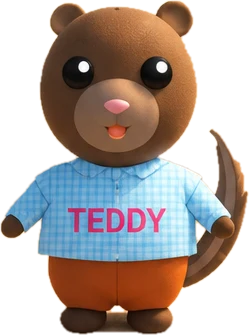
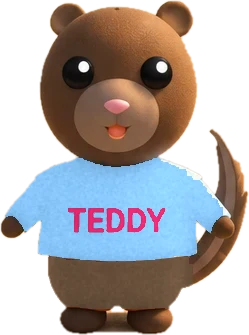
角色名定案：橘子（原英雄）、五毛（原ㄚ波）；碰氣衣服改成照片上的天空藍刷毛衣＋桃紅 TEDDY 字，橘色褲子改回松鼠毛色
Claude-Session: https://claude.ai/code/session_01CqeieRWMUFwXZe9jxa6gye

Changed region(s): [[0.0281, 0.4478, 0.8996, 0.9254]]

diff --git a/index.html b/index.html
@@ -1270,8 +1270,8 @@ const ROLE_BASE = {
   alien:{n:'吃貨外星人',    perk:'說好話感化黑騎士，威力 ×1.6'},
   awu:{n:'阿無',            perk:'知識卡答對多 3 點果友值'},
   robot:{n:'苔蘚古機器人',  perk:'每天第一棵樹必出寶箱'},
-  hero:{n:'英雄',           perk:'守護寶物，黑騎士搶不走'},
-  apo:{n:'ㄚ波',            perk:'能量用完時，每天還能多找 1 棵樹'},
+  hero:{n:'橘子',           perk:'守護寶物，黑騎士搶不走'},
+  apo:{n:'五毛',            perk:'能量用完時，每天還能多找 1 棵樹'},
   knight:{n:'黑騎士',       perk:'寶箱機率 +3%，自己人不會被搶'},
   cat:{n:'小呱',            perk:'晚上 6 點到早上 6 點，寶箱機率 +6%'},
   teddy:{n:'碰氣',          perk:'稀有收藏更容易發現'},
@@ -1607,7 +1607,7 @@ function rhythmGame(done){
     clearInterval(ci); $('#rhJ').textContent = '🎵 開始！'; useAudio = player.start(); pt0 = performance.now(); started = true; raf = requestAnimationFrame(loop); }, 700);
 }
 /* ---------- V10.6：農場翻牌（角色配對＋計時條＋連擊＋中途洗牌） ---------- */
-const MEM_CHARS = [['🍇','阿無'],['🐱','小呱'],['🐿','碰氣'],['🐕','黑熊'],['🐈⬛','奇奇'],['🐢','小葵'],['🐔','一虎'],['🦜','英雄'],['👽','外星人'],['🛡','黑騎士'],['🎁','禮盒'],['🌿','無花果葉']];
+const MEM_CHARS = [['🍇','阿無'],['🐱','小呱'],['🐿','碰氣'],['🐕','黑熊'],['🐈⬛','奇奇'],['🐢','小葵'],['🐔','一虎'],['🦜','橘子'],['👽','外星人'],['🛡','黑騎士'],['🎁','禮盒'],['🌿','無花果葉']];
 function memoryGame(done){
   const d = diffOf('memory'), C = [3,4,4][d], R = [4,4,5][d], pairs = C*R/2, LIMIT = [60,70,80][d], peek = [3,2,2][d];
   const pick = [...MEM_CHARS].sort(()=>Math.random()-.5).slice(0,pairs);
@@ -1887,7 +1887,7 @@ function avatarVec(roleId, mat, color){
       : `<path d="M70 4 C78 -2 88 2 88 8 C80 10 74 8 70 4Z" fill="#5E9A4E"/>`;
     return wrap('阿無');
   }
-  if(role.base==='hero' || role.base==='apo'){ // Q版鸚鵡：英雄（金太陽）、ㄚ波（藍和尚）
+  if(role.base==='hero' || role.base==='apo'){ // Q版鸚鵡：橘子（金太陽）、五毛（藍和尚）
     if(role.base==='hero'){
       s += `<path d="M48 112 C36 130 30 144 34 150 C44 146 52 132 58 118Z" fill="#2F7FA8"/><path d="M52 114 C44 130 42 142 46 148 C52 140 58 128 60 118Z" fill="#5FA05A"/>
         <ellipse cx="60" cy="102" rx="26" ry="28" fill="#F8C93A"/>
@@ -1902,7 +1902,7 @@ function avatarVec(roleId, mat, color){
         <path d="M80 62 C92 60 96 70 90 80 C88 74 84 72 80 74Z" fill="#3C3C42"/><path d="M80 74 C84 72 88 74 90 80 L82 78Z" fill="#26262A"/>
         <circle cx="64" cy="70" r="4" fill="#E8452C" opacity=".6"/>
         <path d="M52 132 l-4 8 M56 132 l0 8 M66 132 l0 8 M70 132 l4 8" stroke="#9A9AA2" stroke-width="3" stroke-linecap="round"/>`;
-      return wrap('英雄');
+      return wrap('橘子');
     }
     s += `<path d="M50 114 C40 130 36 144 40 150 C50 144 56 130 60 118Z" fill="#7FA82E"/>
       <ellipse cx="60" cy="104" rx="26" ry="27" fill="#A9CC3E"/>
@@ -1916,7 +1916,7 @@ function avatarVec(roleId, mat, color){
       <circle cx="70" cy="52" r="4.6" fill="#111"/><circle cx="71.6" cy="50.6" r="1.5" fill="#fff"/>
       <path d="M80 60 C92 60 94 72 86 80 C84 74 80 72 78 72Z" fill="#F2A98A"/>
       <path d="M52 132 l-4 8 M56 132 l0 8 M66 132 l0 8 M70 132 l4 8" stroke="#A8B0B6" stroke-width="3" stroke-linecap="round"/>`;
-    return wrap('ㄚ波');
+    return wrap('五毛');
   }
   if(role.base==='robot'){ // 苔蘚古機器人：原創設計，銅綠外殼長出青苔與新芽
     const cu='#5E9C90', cuD='#3D6B63', brass='#C9A24A';
@@ -2645,7 +2645,7 @@ const CHAPTERS = [
   {from:5,  to:9,  icon:'🌅', t:'清晨・晨露巡園', p:'阿無揉揉眼睛醒來，溫室裡的果子掛滿露水。先報到，再出門走一走鍛鍊體力，能量會多一些。'},
   {from:9,  to:12, icon:'☀', t:'上午・採收時間', p:'碰氣在晨曦溫室跳來跳去，說今天的果子特別甜。產季的溫室，寶箱比較多。'},
   {from:12, to:17, icon:'🛸', t:'午後・外星訪客', p:'一艘飛碟停在翡翠溫室屋頂。外星人探出頭說：聽說這裡的無花果，好吃到銀河都知道。'},
-  {from:17, to:19, icon:'🌇', t:'傍晚・黑騎士出沒', p:'天色暗了，黑騎士在金葉小徑上徘徊，想搶走大家的寶箱。英雄和ㄚ波飛出去巡邏。'},
+  {from:17, to:19, icon:'🌇', t:'傍晚・黑騎士出沒', p:'天色暗了，黑騎士在金葉小徑上徘徊，想搶走大家的寶箱。橘子和五毛飛出去巡邏。'},
   {from:19, to:29, icon:'🌙', t:'夜晚・小呱夜巡', p:'小呱睜大黃眼睛巡園，夜裡的寶箱特別多。睡前把今天的冒險收尾吧。'}
 ];
 function chapter(){ let h=new Date().getHours(); if(h<5) h+=24; return CHAPTERS.find(c=>h>=c.from && h<c.to) || CHAPTERS[4]; }
@@ -2756,7 +2756,7 @@ function tapTree(i){
   if(tapped.includes(i)){ toast('這棵樹今天找過了，換一棵試試'); return; }
   let apoFree = false;
   if(stamina()<1){
-    if(roleBase(P.role)==='apo' && !P.daily.apoExtra){ apoFree = true; P.daily.apoExtra = true; toast('ㄚ波拍拍翅膀，多找一棵樹'); }
+    if(roleBase(P.role)==='apo' && !P.daily.apoExtra){ apoFree = true; P.daily.apoExtra = true; toast('五毛拍拍翅膀，多找一棵樹'); }
     else { toast('今天的巡園次數用完了，走走路或照顧樹就能補充'); return; }
   }
   if(!apoFree) P.daily.used++;
@@ -2767,7 +2767,7 @@ function tapTree(i){
   const forceChest = (base==='robot' && !P.daily.firstTap) || (P.daily.chests===0 && before>=2);   // 保底：每天第 3 棵樹前一定開到寶箱
   P.daily.firstTap = true;
   const h = new Date().getHours();
-  // 黑騎士搶寶：傍晚比較常出現；英雄和黑騎士不會被搶
+  // 黑騎士搶寶：傍晚比較常出現；橘子和黑騎士不會被搶
   if(!forceChest && !P.daily.knightMet && base!=='hero' && base!=='knight' && Math.random() < (h>=17&&h<19 ? .10 : .05)){
     res[i]='🏴'; const lf=gainLeaves(1); save(); openZone(z.id);
     return result('🏴','黑騎士偷走了寶物！',`他從${kzName()}溫室溜過來，只掉下一點點果友值（+${lf}）。去${kzName()}溫室把他趕走，今天就不會再被偷。`);
@@ -3643,7 +3643,7 @@ function knightBattle(zid){
     $('#kCtl').querySelectorAll('[data-q]').forEach(b=>b.onclick=()=>say(b.dataset.q));
     $('#kSend').onclick = ()=>{ say($('#kIn').value); $('#kIn').value=''; };
     $('#kIn').onkeydown = e=>{ if(e.key==='Enter'){ e.preventDefault(); $('#kSend').click(); } };
-    const npc = [`小呱：${P.name} 加油！`,'英雄：好話也是一種力量！','ㄚ波：他肚子餓了啦～','阿無：分他一顆熟無花果','碰氣：吱吱！我來幫忙','外星人：銀河都在看你！'];
+    const npc = [`小呱：${P.name} 加油！`,'橘子：好話也是一種力量！','五毛：他肚子餓了啦～','阿無：分他一顆熟無花果','碰氣：吱吱！我來幫忙','外星人：銀河都在看你！'];
     const tm = setInterval(()=>{ if(!document.getElementById('khp')){ clearInterval(tm); over=true; return; } left--; upd(); if(left%3===0) danmaku(npc[rnd(npc.length)],'npc'); if(left<=0){ clearInterval(tm); if(!over && hp>0) lose(); } }, 1000);
     danmaku('守護者出動！大家一起說好話','npc'); upd();
     function win(){

diff --git a/test.html b/test.html
@@ -1270,8 +1270,8 @@ const ROLE_BASE = {
   alien:{n:'吃貨外星人',    perk:'說好話感化黑騎士，威力 ×1.6'},
   awu:{n:'阿無',            perk:'知識卡答對多 3 點果友值'},
   robot:{n:'苔蘚古機器人',  perk:'每天第一棵樹必出寶箱'},
-  hero:{n:'英雄',           perk:'守護寶物，黑騎士搶不走'},
-  apo:{n:'ㄚ波',            perk:'能量用完時，每天還能多找 1 棵樹'},
+  hero:{n:'橘子',           perk:'守護寶物，黑騎士搶不走'},
+  apo:{n:'五毛',            perk:'能量用完時，每天還能多找 1 棵樹'},
   knight:{n:'黑騎士',       perk:'寶箱機率 +3%，自己人不會被搶'},
   cat:{n:'小呱',            perk:'晚上 6 點到早上 6 點，寶箱機率 +6%'},
   teddy:{n:'碰氣',          perk:'稀有收藏更容易發現'},
@@ -1607,7 +1607,7 @@ function rhythmGame(done){
     clearInterval(ci); $('#rhJ').textContent = '🎵 開始！'; useAudio = player.start(); pt0 = performance.now(); started = true; raf = requestAnimationFrame(loop); }, 700);
 }
 /* ---------- V10.6：農場翻牌（角色配對＋計時條＋連擊＋中途洗牌） ---------- */
-const MEM_CHARS = [['🍇','阿無'],['🐱','小呱'],['🐿','碰氣'],['🐕','黑熊'],['🐈⬛','奇奇'],['🐢','小葵'],['🐔','一虎'],['🦜','英雄'],['👽','外星人'],['🛡','黑騎士'],['🎁','禮盒'],['🌿','無花果葉']];
+const MEM_CHARS = [['🍇','阿無'],['🐱','小呱'],['🐿','碰氣'],['🐕','黑熊'],['🐈⬛','奇奇'],['🐢','小葵'],['🐔','一虎'],['🦜','橘子'],['👽','外星人'],['🛡','黑騎士'],['🎁','禮盒'],['🌿','無花果葉']];
 function memoryGame(done){
   const d = diffOf('memory'), C = [3,4,4][d], R = [4,4,5][d], pairs = C*R/2, LIMIT = [60,70,80][d], peek = [3,2,2][d];
   const pick = [...MEM_CHARS].sort(()=>Math.random()-.5).slice(0,pairs);
@@ -1887,7 +1887,7 @@ function avatarVec(roleId, mat, color){
       : `<path d="M70 4 C78 -2 88 2 88 8 C80 10 74 8 70 4Z" fill="#5E9A4E"/>`;
     return wrap('阿無');
   }
-  if(role.base==='hero' || role.base==='apo'){ // Q版鸚鵡：英雄（金太陽）、ㄚ波（藍和尚）
+  if(role.base==='hero' || role.base==='apo'){ // Q版鸚鵡：橘子（金太陽）、五毛（藍和尚）
     if(role.base==='hero'){
       s += `<path d="M48 112 C36 130 30 144 34 150 C44 146 52 132 58 118Z" fill="#2F7FA8"/><path d="M52 114 C44 130 42 142 46 148 C52 140 58 128 60 118Z" fill="#5FA05A"/>
         <ellipse cx="60" cy="102" rx="26" ry="28" fill="#F8C93A"/>
@@ -1902,7 +1902,7 @@ function avatarVec(roleId, mat, color){
         <path d="M80 62 C92 60 96 70 90 80 C88 74 84 72 80 74Z" fill="#3C3C42"/><path d="M80 74 C84 72 88 74 90 80 L82 78Z" fill="#26262A"/>
         <circle cx="64" cy="70" r="4" fill="#E8452C" opacity=".6"/>
         <path d="M52 132 l-4 8 M56 132 l0 8 M66 132 l0 8 M70 132 l4 8" stroke="#9A9AA2" stroke-width="3" stroke-linecap="round"/>`;
-      return wrap('英雄');
+      return wrap('橘子');
     }
     s += `<path d="M50 114 C40 130 36 144 40 150 C50 144 56 130 60 118Z" fill="#7FA82E"/>
       <ellipse cx="60" cy="104" rx="26" ry="27" fill="#A9CC3E"/>
@@ -1916,7 +1916,7 @@ function avatarVec(roleId, mat, color){
       <circle cx="70" cy="52" r="4.6" fill="#111"/><circle cx="71.6" cy="50.6" r="1.5" fill="#fff"/>
       <path d="M80 60 C92 60 94 72 86 80 C84 74 80 72 78 72Z" fill="#F2A98A"/>
       <path d="M52 132 l-4 8 M56 132 l0 8 M66 132 l0 8 M70 132 l4 8" stroke="#A8B0B6" stroke-width="3" stroke-linecap="round"/>`;
-    return wrap('ㄚ波');
+    return wrap('五毛');
   }
   if(role.base==='robot'){ // 苔蘚古機器人：原創設計，銅綠外殼長出青苔與新芽
     const cu='#5E9C90', cuD='#3D6B63', brass='#C9A24A';
@@ -2645,7 +2645,7 @@ const CHAPTERS = [
   {from:5,  to:9,  icon:'🌅', t:'清晨・晨露巡園', p:'阿無揉揉眼睛醒來，溫室裡的果子掛滿露水。先報到，再出門走一走鍛鍊體力，能量會多一些。'},
   {from:9,  to:12, icon:'☀', t:'上午・採收時間', p:'碰氣在晨曦溫室跳來跳去，說今天的果子特別甜。產季的溫室，寶箱比較多。'},
   {from:12, to:17, icon:'🛸', t:'午後・外星訪客', p:'一艘飛碟停在翡翠溫室屋頂。外星人探出頭說：聽說這裡的無花果，好吃到銀河都知道。'},
-  {from:17, to:19, icon:'🌇', t:'傍晚・黑騎士出沒', p:'天色暗了，黑騎士在金葉小徑上徘徊，想搶走大家的寶箱。英雄和ㄚ波飛出去巡邏。'},
+  {from:17, to:19, icon:'🌇', t:'傍晚・黑騎士出沒', p:'天色暗了，黑騎士在金葉小徑上徘徊，想搶走大家的寶箱。橘子和五毛飛出去巡邏。'},
   {from:19, to:29, icon:'🌙', t:'夜晚・小呱夜巡', p:'小呱睜大黃眼睛巡園，夜裡的寶箱特別多。睡前把今天的冒險收尾吧。'}
 ];
 function chapter(){ let h=new Date().getHours(); if(h<5) h+=24; return CHAPTERS.find(c=>h>=c.from && h<c.to) || CHAPTERS[4]; }
@@ -2756,7 +2756,7 @@ function tapTree(i){
   if(tapped.includes(i)){ toast('這棵樹今天找過了，換一棵試試'); return; }
   let apoFree = false;
   if(stamina()<1){
-    if(roleBase(P.role)==='apo' && !P.daily.apoExtra){ apoFree = true; P.daily.apoExtra = true; toast('ㄚ波拍拍翅膀，多找一棵樹'); }
+    if(roleBase(P.role)==='apo' && !P.daily.apoExtra){ apoFree = true; P.daily.apoExtra = true; toast('五毛拍拍翅膀，多找一棵樹'); }
     else { toast('今天的巡園次數用完了，走走路或照顧樹就能補充'); return; }
   }
   if(!apoFree) P.daily.used++;
@@ -2767,7 +2767,7 @@ function tapTree(i){
   const forceChest = (base==='robot' && !P.daily.firstTap) || (P.daily.chests===0 && before>=2);   // 保底：每天第 3 棵樹前一定開到寶箱
   P.daily.firstTap = true;
   const h = new Date().getHours();
-  // 黑騎士搶寶：傍晚比較常出現；英雄和黑騎士不會被搶
+  // 黑騎士搶寶：傍晚比較常出現；橘子和黑騎士不會被搶
   if(!forceChest && !P.daily.knightMet && base!=='hero' && base!=='knight' && Math.random() < (h>=17&&h<19 ? .10 : .05)){
     res[i]='🏴'; const lf=gainLeaves(1); save(); openZone(z.id);
     return result('🏴','黑騎士偷走了寶物！',`他從${kzName()}溫室溜過來，只掉下一點點果友值（+${lf}）。去${kzName()}溫室把他趕走，今天就不會再被偷。`);
@@ -3643,7 +3643,7 @@ function knightBattle(zid){
     $('#kCtl').querySelectorAll('[data-q]').forEach(b=>b.onclick=()=>say(b.dataset.q));
     $('#kSend').onclick = ()=>{ say($('#kIn').value); $('#kIn').value=''; };
     $('#kIn').onkeydown = e=>{ if(e.key==='Enter'){ e.preventDefault(); $('#kSend').click(); } };
-    const npc = [`小呱：${P.name} 加油！`,'英雄：好話也是一種力量！','ㄚ波：他肚子餓了啦～','阿無：分他一顆熟無花果','碰氣：吱吱！我來幫忙','外星人：銀河都在看你！'];
+    const npc = [`小呱：${P.name} 加油！`,'橘子：好話也是一種力量！','五毛：他肚子餓了啦～','阿無：分他一顆熟無花果','碰氣：吱吱！我來幫忙','外星人：銀河都在看你！'];
     const tm = setInterval(()=>{ if(!document.getElementById('khp')){ clearInterval(tm); over=true; return; } left--; upd(); if(left%3===0) danmaku(npc[rnd(npc.length)],'npc'); if(left<=0){ clearInterval(tm); if(!over && hp>0) lose(); } }, 1000);
     danmaku('守護者出動！大家一起說好話','npc'); upd();
     function win(){

diff --git a/README.md b/README.md
@@ -34,5 +34,7 @@ docs/                 交接說明與參考圖（不會部署到網站）
 
 ## 角色名稱
 
-阿無、吃貨外星人、苔蘚古機器人、英雄（hero）、ㄚ波（apo）、黑騎士、小呱、碰氣、
+阿無、吃貨外星人、苔蘚古機器人、橘子（hero）、五毛（apo）、黑騎士、小呱、碰氣、
 黑熊、奇奇、小葵、一虎、小雪、golden、托托、邦尼
+
+角色名稱已定案，之後不要再改回：橘子＝原「英雄」、五毛＝原「ㄚ波」；小呱、黑熊維持原名；柴柴＝托托。
